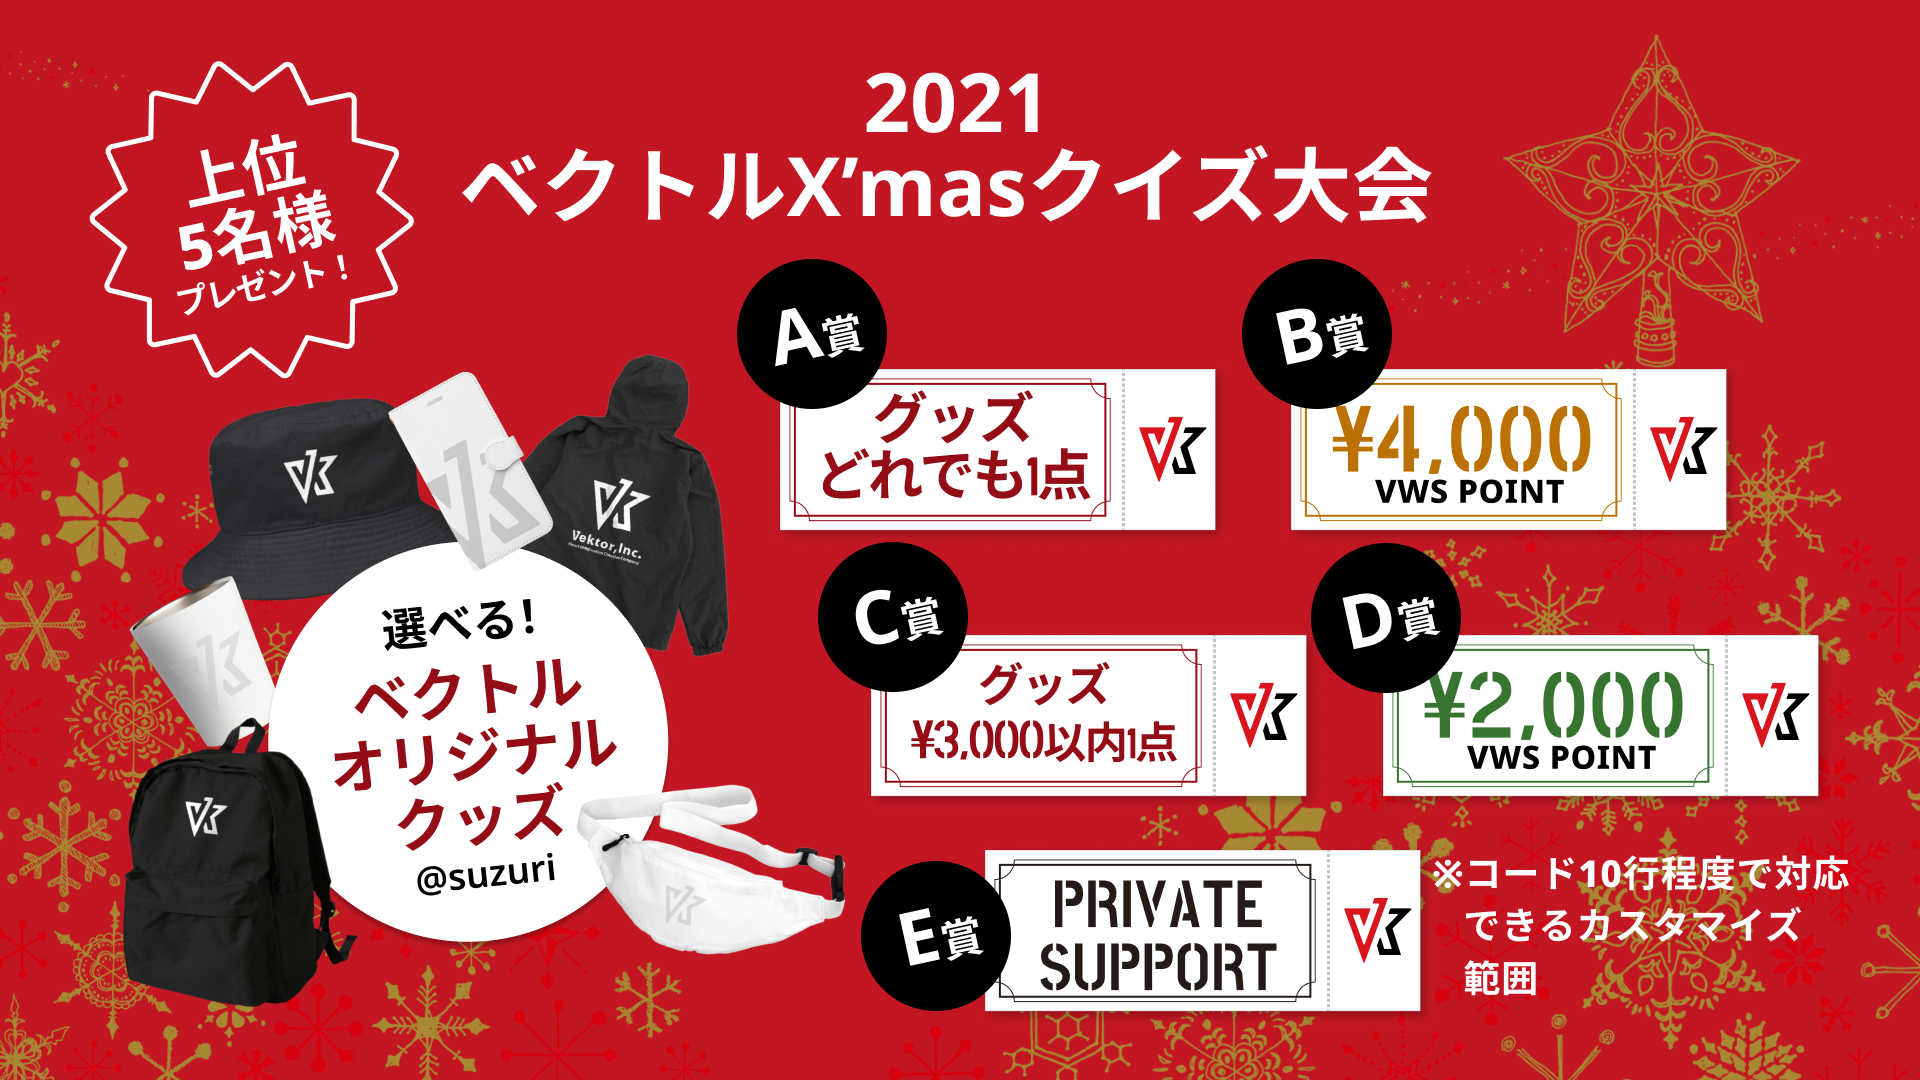
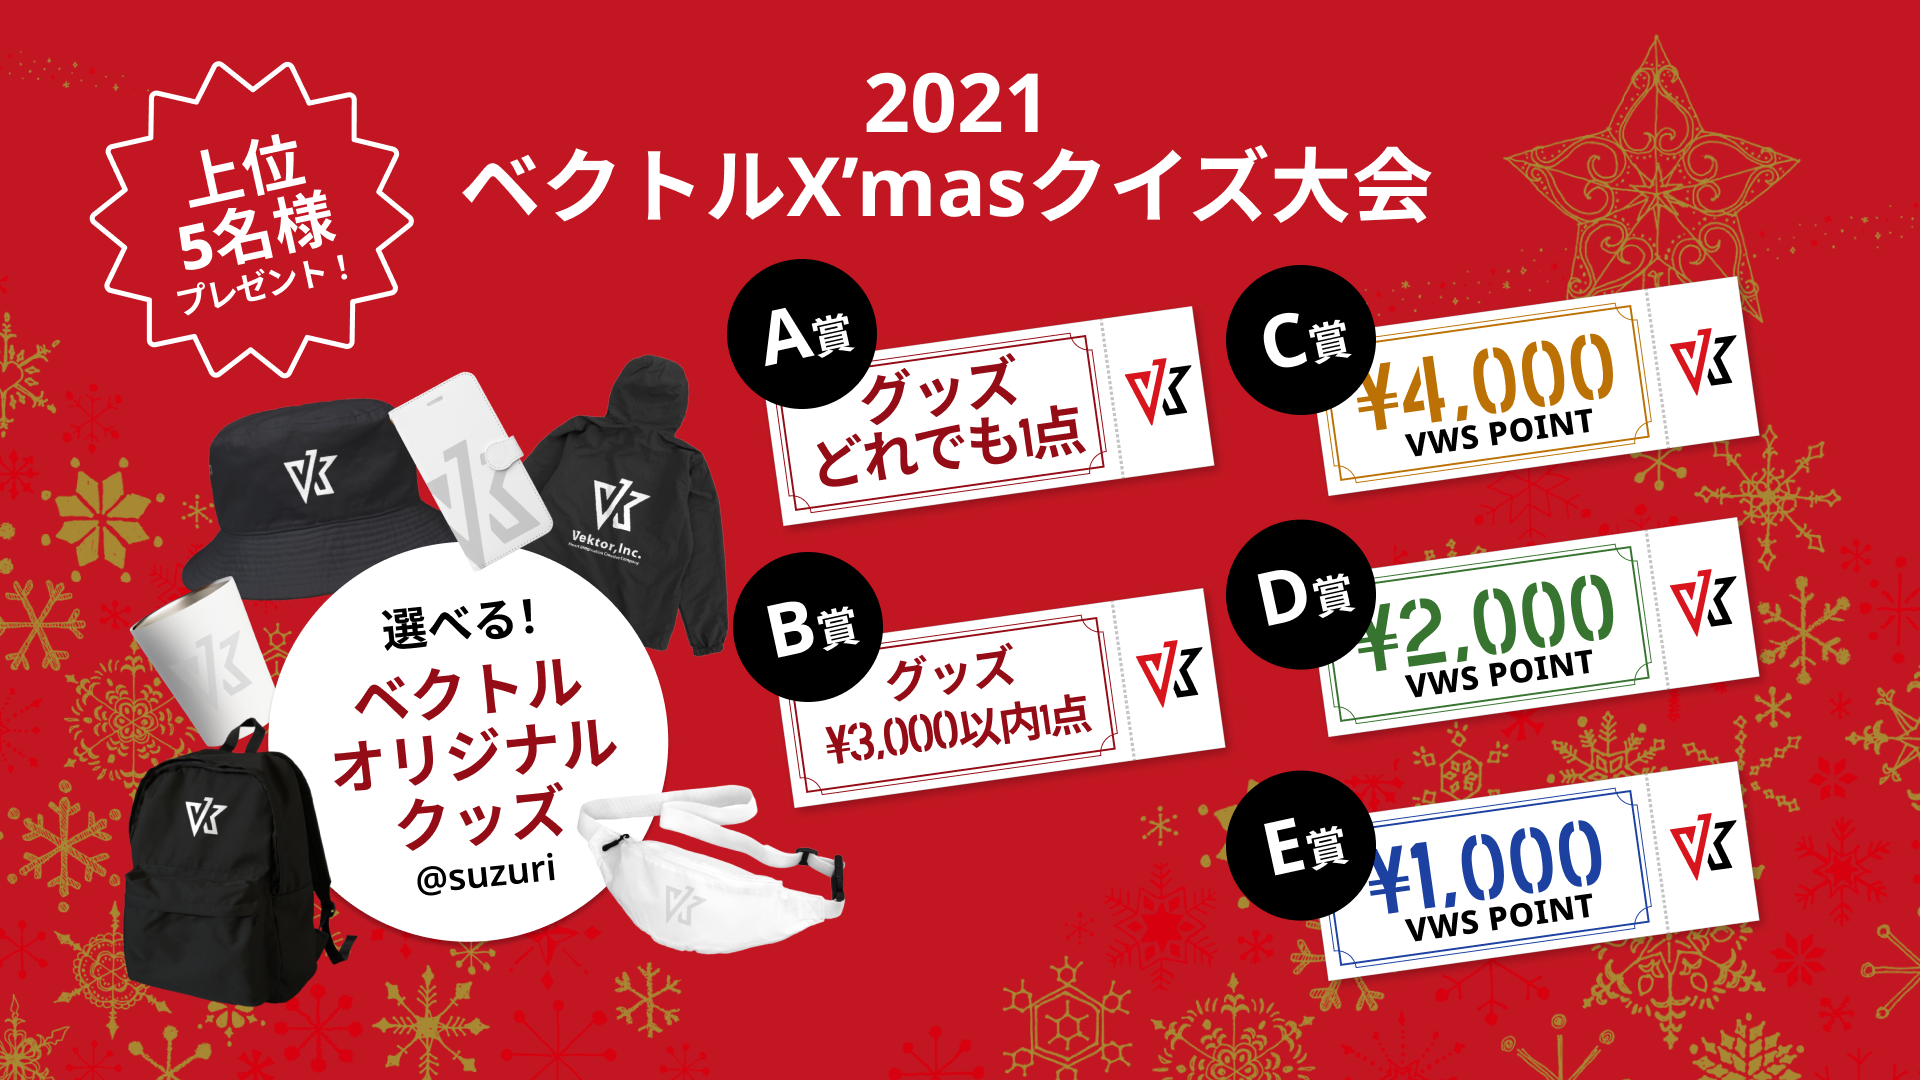
mod: 終礼で出た内容

Changed region(s): [[0.375, 0.2444, 0.9688, 0.9472]]

diff --git a/template_seminar.md b/template_seminar.md
@@ -149,12 +149,12 @@ https://commentscreen.com/comments?id=GWrqndUaKU10zYvl3h0B
 ---
 
 
-## VK Filter Search に Post Date Search が加わりました！
+## VK Filter Search Pro 投稿日付検索 が加わりました！
 
 ---
 
 ## グリッドカラムカードブロックβ版テストのお願い
-VK Blocks Pro をご利用中の方へ
+ Ligntning G3 Pro Unit をご利用中の方へ
 
 ---
 <!-- _class: title-chapter  -->
@@ -239,11 +239,14 @@ Lightning を使用していて、
 ![bg](themes/vk-slide/images/vws_title_01_lightgray.svg)
 
 ## 賞品を選んでください
+https://suzuri.jp/vektor
+
 **A賞** ベクトルグッズ（お好みのアイテム１点）
-**B賞** ベクトルグッズ（3,000円以下１点）
+**B賞** ベクトルグッズ（税込3,500円以下１点）
+
 **C賞** ベクトルポイント 4000
 **D賞** ベクトルポイント 2000
-**E賞** プライベートサポート1回（※コード10行程度で対応できるカスタマイズ範囲）
+**E賞** ベクトルポイント 1000
 
 ---
 <!-- _class: title-chapter  -->
@@ -271,6 +274,21 @@ https://forms.gle/Xp7TAZ21pVfCVQa17
 - 今後の勉強会でとりあげてほしいテーマ
 
 よろしければご意見をお聞かせください。
+
+---
+
+<!-- _class: title-chapter -->
+
+
+## ☆VWSフォーラムに回答いただくと！
+ベストアンサーには300ポイントが付与されます！✨
+付与されたポイントは、VWSサイト内でテーマ・プラグインをご購入の際に「1ポイント=1円」として利用できます。
+
+## ★ 質問して解決した方へ
+解決した場合は解決した返信に「ベストアンサー」をつけてください✅
+
+
+
 
 ---
 <!-- _class: title-chapter -->
